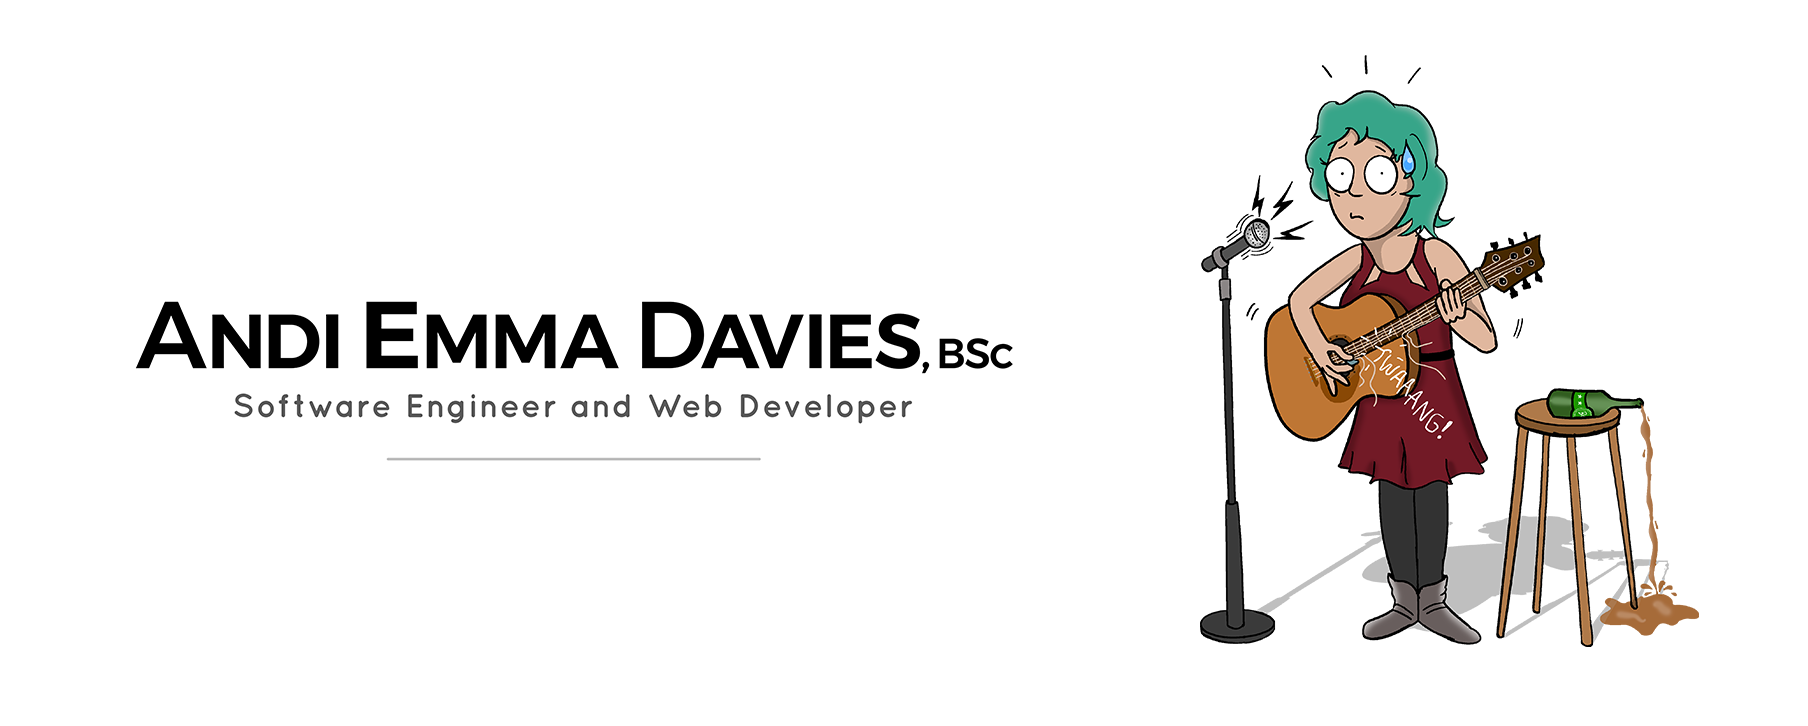
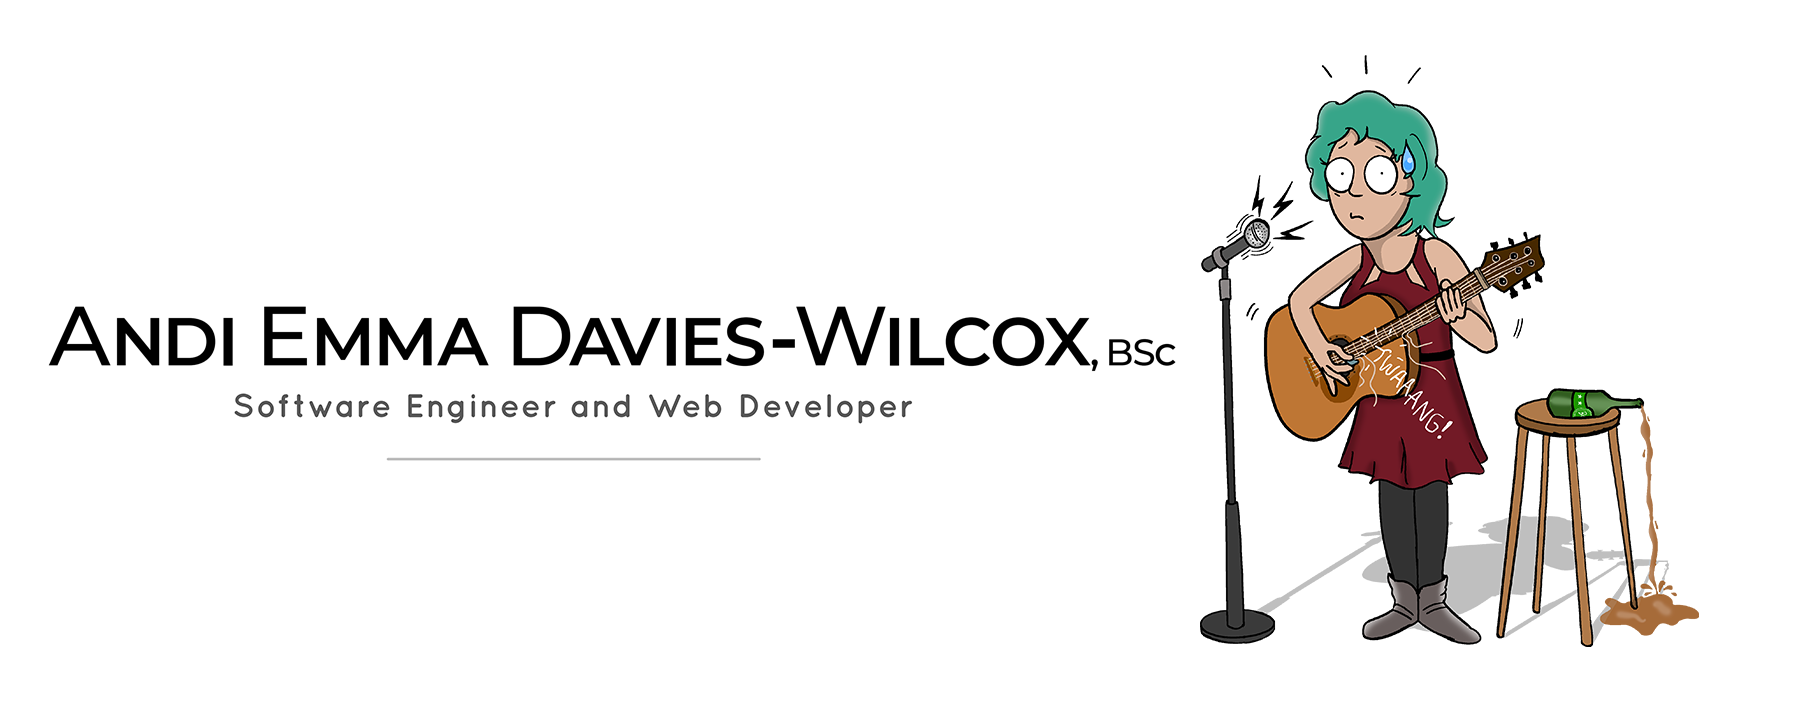
Changes up to September 2024

Changed region(s): [[0.031, 0.3939, 0.6504, 0.5152]]

diff --git a/README.md b/README.md
@@ -1,23 +1,23 @@
-![Hero Image](https://raw.githubusercontent.com/andidavies92/andidavies92/master/hero.png)
+![Hero image](https://raw.githubusercontent.com/andiemmadavieswilcox/andiemmadavieswilcox/master/hero.png)
 
 <h1>
     Hey there!
-    <img src="https://raw.githubusercontent.com/andidavies92/andidavies92/master/wave.gif" alt="Animated Hand Waving" height="20px">
+    <img src="https://raw.githubusercontent.com/andiemmadavieswilcox/andiemmadavieswilcox/master/wave.gif" alt="Animated hand emoji waving" height="20px">
 </h1>
 
-How’s it going? Hope you’re having a great day 😊 My name’s Andi, I’m a senior full-stack engineer, specialising in the frontend, from [Chepstow](https://en.wikipedia.com/wiki/Chepstow) in [South Wales](https://en.wikipedia.com/wiki/South_Wales). My biggest passion in coding is creating the best [user experience](https://en.wikipedia.com/wiki/User_experience) possible – which is why I tend to lean towards the frontend – and am always working on random [personal projects](#current-active-projects-) outside of my day job. I’d like to start contributing more to the open source community too, aside from my own projects, as my biggest bragging right to date is a [PR](https://www.github.com/facebook/react/pull/11599) accepted to the main [React](https://www.github.com/facebook/react) repo… It’s only a config change, but I’m still counting it, damnit! 😂
+How’s it going? Hope you’re having a great day 😊 My name’s Andi, I’m a senior full-stack engineer, specialising in the frontend, from [Chepstow](https://en.wikipedia.com/wiki/Chepstow) in [South Wales](https://en.wikipedia.com/wiki/South_Wales). My biggest passion in coding is creating the best [user experience](https://en.wikipedia.com/wiki/User_experience) possible — which is why I tend to lean towards the frontend — and am always working on random [personal projects](#current-active-projects-) outside of my day job. I’d like to start contributing more to the open source community too, aside from my own projects, as my biggest bragging right to date is a [PR](https://www.github.com/facebook/react/pull/11599) accepted to the main [React](https://www.github.com/facebook/react) repo… It’s only a config change, but I’m still counting it, damnit! 😂
 
 ## Current active projects 👩💻
 
-🎮 **[Pokémon RBY DX](https://www.github.com/AmateurPanda92/pokemon-rby-dx)** – _my newest major venture, and the one I’m currently most active on, although we’re only in the early stages of planning and asset design at the moment. It’s an ambitious set of ROM hacks that alter the disassembled original Pokémon Game Boy games to add full GBC colour and other features. Me and a fledgeling game designer friend started this recently as a collaboration project and would welcome contributions from others._
+🎮 **[Pokémon RBY DX](https://www.github.com/AmateurPanda92/pokemon-rby-dx)** — _my newest major venture, although we’re mostly just in the early stages of planning and asset design at the moment. It’s an ambitious set of ROM hacks that alter the disassembled original Pokémon Game Boy games to add full GBC colour and other features. Me and a fledgeling game designer friend started this recently as a collaboration project and would welcome contributions from others._
 
-🚗 **[TriumphMayflowerClub.com](https://www.github.com/Stack-in-a-box/triumphmayflowerclub.com)** – _ongoing, long-term project, a website for a classic car club that I designed and developed from scratch, using Jekyll as a static site generator and then vanilla HTML, CSS and a teeny bit of JS. I now maintain it by adding content and features. I plan to eventually develop a simple, bespoke CMS to allow non-technical members to author content like news articles. Actively looking for project co-maintainers and contributors by the way!_
+🚗 **[TriumphMayflowerClub.com](https://www.github.com/Stack-in-a-box/triumphmayflowerclub.com)** — _ongoing, long-term project, a website for a classic car club that I designed and developed from scratch, using Jekyll as a static site generator and then vanilla HTML, CSS, and a teeny bit of JS. I now maintain it by adding content and features. I plan to eventually develop a simple, bespoke CMS to allow non-technical members to author content like news articles. Actively looking for project co-maintainers and contributors by the way!_
 
-🌟 **[Next.js Rewrite of the TMC Website](https://www.github.com/andidavies92/triumphmayflowerclub.com-next.js)** – _I’ve started work on the v2.0 rewrite of the TMC website, building it using Next.js (built on top of React), TypeScript and Sass. When this SPA reaches parity with the current Jekyll-based website, we will switch over to using this one. The objective is to enable the addition of more advanced features that are currently impossible (or at least impractical to implement) with a static website._
+🌟 **[Next.js Rewrite of the TMC Website](https://www.github.com/andiemmadavieswilcox/triumphmayflowerclub.com-next.js)** — _I’ve started work on the v2.0 rewrite of the TMC website, building it using Next.js (built on top of React), TypeScript, and Sass. When this SPA reaches parity with the current Jekyll-based website, we will switch over to using this one. The objective is to enable the addition of more advanced features that are currently impossible (or at least impractical to implement) with a static website._
 
-🎨 **[CCC ’Cons](https://www.github.com/andidavies92/ccc-cons)** – _An acronym-ish of “Colour-restored Creative Cloud Icons”, this project is a quick icon pack I recently threw together than can be used to replace the terrible new (late-2020+) Adobe Creative Cloud icons (where some boneheaded designer decided to ditch the universally recognised individual app colours for dull, supposed category-grouped colours) with ones that use the same new icon style but with their colours restored to their pre-2020 glory, making them much more distinguishable and aesthetically pleasing again._
+🎨 **[CCC ’Cons](https://www.github.com/Stack-in-a-box/ccc-cons)** — _An acronym-ish of “Colour-restored Creative Cloud Icons”, this project is a quick icon pack I recently threw together than can be used to replace the terrible new (late-2020+) Adobe Creative Cloud icons (where some boneheaded designer decided to ditch the universally recognised individual app colours for dull, supposed category-grouped colours) with ones that use the same new icon style but with their colours restored to their pre-2020 glory, making them much more distinguishable and aesthetically pleasing again._
 
-🌐 **[Chrome Domain Watermarker](https://www.github.com/Stack-in-a-box/chrome-domain-watermarker)** – _I haven’t worked on this in a couple of years, but that’s mostly down to getting distracted by other projects. This is a Chrome extension which allows users to display watermark text over user-specified domains, which can be useful for devs to remind themselves when they’re interacting with a production system rather than a staging one. It’s in a usable alpha state though, so please feel free to try it out and give feedback; I definitely want to revisit this in the near future._
+🌐 **[Chrome Domain Watermarker](https://www.github.com/Stack-in-a-box/chrome-domain-watermarker)** — _I haven’t worked on this in a few years, but that’s mostly down to getting distracted by other projects. This is a Chrome extension which allows users to display watermark text over user-specified domains, which can be useful for devs to remind themselves when they’re interacting with a production system rather than a staging one. It’s in a usable alpha state though, so please feel free to try it out and give feedback; I definitely want to revisit this in the near future._
 
 ## Other interests and hobbies ❤
 
@@ -25,7 +25,7 @@ How’s it going? Hope you’re having a great day 😊 My name’s Andi, I’m 
     🎸&nbsp;Musical&nbsp;performance&nbsp;and&nbsp;composition
     🎤&nbsp;Going&nbsp;to&nbsp;gigs&nbsp;and&nbsp;music&nbsp;festivals
     🎛&nbsp;Record&nbsp;production&nbsp;and&nbsp;audio&nbsp;engineering
-    🕹&nbsp;Retro&nbsp;gaming,&nbsp;collecting&nbsp;and&nbsp;modding
+    🕹&nbsp;Retro&nbsp;gaming,&nbsp;collecting,&nbsp;and&nbsp;modding
     🎥&nbsp;Amateur&nbsp;videography
     ⛷&nbsp;Ski&nbsp;racing&nbsp;and&nbsp;snowboarding
     ⚽&nbsp;Playing&nbsp;football&nbsp;(soccer)&nbsp;w/&nbsp;my&nbsp;women’s&nbsp;team
@@ -84,7 +84,7 @@ These are my preferred tools, frameworks, languages, etc. (can you tell I’m a 
         <img src="https://img.shields.io/badge/Frontend%20package%20manager-Yarn-%230078D7?logo=yarn&logoColor=white">
     <a>
     <a href="https://dotnet.microsoft.com/">
-        <img src="https://img.shields.io/badge/Backend%20framework-ASP.NET%20(.NET%205)-%230078D7?logo=.net&logoColor=white">
+        <img src="https://img.shields.io/badge/Backend%20framework-ASP.NET-%230078D7?logo=.net&logoColor=white">
     <a>
     <a href="https://docs.microsoft.com/dotnet/csharp">
         <img src="https://img.shields.io/badge/Backend%20language-C%23-%230078D7?logo=c-sharp&logoColor=white">
@@ -95,7 +95,7 @@ These are my preferred tools, frameworks, languages, etc. (can you tell I’m a 
     <a href="https://www.mongodb.com/">
         <img src="https://img.shields.io/badge/DBMS-MongoDB-%230078D7?logo=mongodb&logoColor=white">
     <a>
-    <a href="https://azure.microsoft.com/">
+    <a href="https://cloud.google.com/">
         <img src="https://img.shields.io/badge/Cloud%20platform-GCP%20(Google)-%230078D7?logo=google-cloud&logoColor=white">
     <a>
     <a href="https://www.amd.com/">
@@ -113,5 +113,5 @@ These are my preferred tools, frameworks, languages, etc. (can you tell I’m a 
 
 <div align="center">
     <p>The best way to contact me is via my LinkedIn:</p>
-    <a href="https://www.linkedin.com/in/andiemmadavies">https://www.linkedin.com/in/andiemmadavies</a>
+    <a href="https://www.linkedin.com/in/andiemmadavieswilcox">https://www.linkedin.com/in/andiemmadavieswilcox</a>
 </div>
